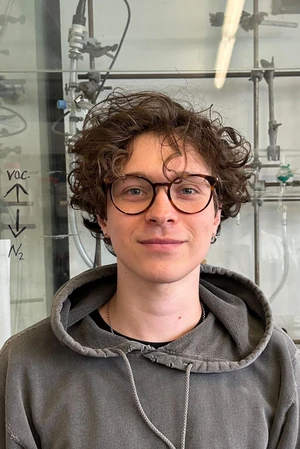
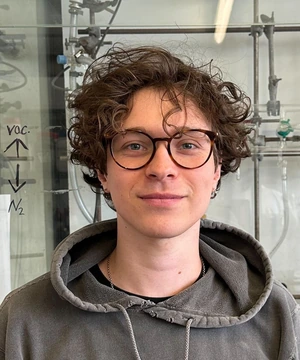
About: tighter portrait crop, text, portrait and facts in one row
Claude-Session: https://claude.ai/code/session_01QuX6ML4TtFYae4myo4ddSt

diff --git a/assets/site.css b/assets/site.css
@@ -151,7 +151,14 @@ section + section { border-top: 1px solid var(--line); }
 
 /* About */
 .about-grid { display: grid; gap: 48px; }
-@media (min-width: 900px) { .about-grid { grid-template-columns: minmax(0, 7fr) minmax(0, 4fr); gap: 72px; } }
+@media (min-width: 700px) {
+  .about-grid { grid-template-columns: 13rem minmax(0, 1fr); gap: 40px 48px; align-items: start; }
+  .about-text { grid-column: 1 / -1; }
+}
+@media (min-width: 1100px) {
+  .about-grid { grid-template-columns: minmax(0, 1fr) 13rem 15rem; gap: 56px; }
+  .about-text { grid-column: auto; }
+}
 .about-text { max-width: var(--measure); }
 .facts { margin: 0; display: grid; gap: 22px; align-content: start; font-size: 1rem; }
 .facts dt { font-family: var(--display); color: var(--muted); font-size: 0.875rem; margin-bottom: 2px; }
@@ -273,11 +280,10 @@ section + section { border-top: 1px solid var(--line); }
 .site-footer { border-top: 1px solid var(--line); padding: 32px 0 48px; color: var(--muted); font-size: 0.9375rem; }
 .site-footer .wrap { display: flex; flex-wrap: wrap; justify-content: space-between; gap: 8px 24px; }
 
-/* About: portrait above the facts */
-.about-side { display: grid; gap: 28px; align-content: start; }
+/* About: text, portrait and facts side by side, top-aligned */
 .portrait {
-  display: block; width: min(100%, 240px); height: auto; aspect-ratio: 300 / 449; object-fit: cover;
-  border-radius: 16px; box-shadow: 0 0 0 1px var(--line);
+  display: block; width: 100%; max-width: 15rem; height: auto; aspect-ratio: 5 / 6; object-fit: cover;
+  border-radius: 14px; box-shadow: 0 0 0 1px var(--line);
 }
 
 /* Artwork gallery */

diff --git a/index.html b/index.html
@@ -91,15 +91,13 @@
           <p data-i18n="about.p2">In my PhD I develop novel organic materials through dynamic carbon–carbon bond formation, based on the reversible recombination of persistent radicals. Because these bonds can open and close again, the materials respond to external stimuli, a route towards a new generation of adaptive, stimuli-responsive materials.</p>
           <a class="btn-fill" href="cv/CV_Hartmann_Yannic.pdf" target="_blank" rel="noopener" data-i18n="about.cv">CV (PDF)</a>
         </div>
-        <div class="about-side">
-          <img class="portrait" src="assets/img/portrait.webp" width="300" height="449" alt="Portrait of Yannic Hartmann in the lab" loading="lazy" decoding="async">
+        <img class="portrait" src="assets/img/portrait.webp" width="300" height="360" alt="Portrait of Yannic Hartmann in the lab" loading="lazy" decoding="async">
         <dl class="facts">
           <div><dt data-i18n="facts.pos">Position</dt><dd data-i18n="facts.posV">Doctoral researcher</dd></div>
           <div><dt data-i18n="facts.group">Research group</dt><dd><a href="https://www.supramolekularechemie.hhu.de/en/" data-i18n="facts.groupV">Supramolecular Chemistry, Dr. Bernd M. Schmidt</a></dd></div>
           <div><dt data-i18n="facts.inst">Institution</dt><dd data-i18n="facts.instV">Heinrich Heine University Düsseldorf, Germany</dd></div>
           <div><dt data-i18n="facts.fund">Funding</dt><dd data-i18n="facts.fundV">Kekulé Fellowship, Fonds der Chemischen Industrie</dd></div>
         </dl>
-        </div>
       </div>
     </div>
   </section>
